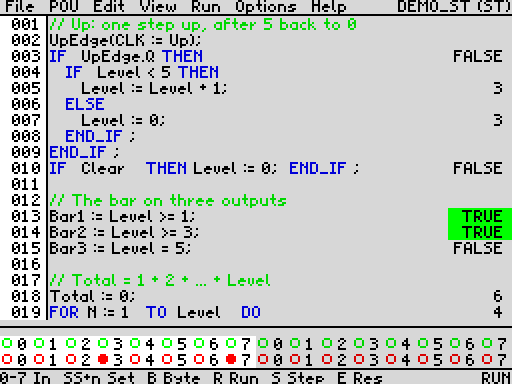
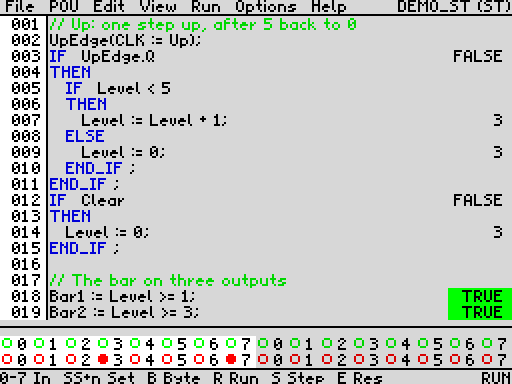
ST: control keywords always on lines of their own
IF / THEN / ELSIF / ELSE / END_IF, CASE / OF, FOR / DO, WHILE, REPEAT /
UNTIL and END_x start a line, and nothing but a comment follows THEN /
ELSE / DO / OF / REPEAT / END_x; on it, so the keywords of a construct
are aligned. st_brk splits a line when the cursor leaves it (st_commit)
and when text is loaded (st_add_line); the cursor, ENTER and mouse
clicks follow the added lines. Demo, manual and screenshots updated.

Claude-Session: https://claude.ai/code/session_01VKWfWdLZ4jVfo626yCcR9d

diff --git a/docs/MANUAL.md b/docs/MANUAL.md
@@ -433,8 +433,12 @@ works like a small text editor:
 * Keywords (`IF`, `THEN`, `END_IF`, `AND`, ...) are dark blue and start on a character cell, so the text
   after a keyword can have a small gap. Comments (`// text` to the end of the line, or `(* text *)`) are
   dark green.
-* **The indent is automatic:** the line after `THEN`, `ELSE`, `DO`, `OF` or `REPEAT` moves one step to
-  the right, a line starting with `END_IF`, `ELSE`, `ELSIF`, `END_FOR`, `UNTIL`, ... one step back.
+* **Every control keyword is on a line of its own:** `IF`, `THEN`, `ELSIF`, `ELSE`, `END_IF`, `CASE`,
+  `OF`, `FOR`, `DO`, `WHILE`, `REPEAT`, `UNTIL` and the `END_...` keywords start a line, and nothing but
+  a comment follows `THEN`, `ELSE`, `DO`, `OF`, `REPEAT` or `END_...;` on it. A line typed as
+  `IF a THEN x := 1; END_IF;` is split into four lines when the cursor leaves it.
+* **The indent is automatic:** the keywords of one construct (`IF`, `THEN`, `ELSE`, `END_IF`) are always
+  aligned, the lines after `THEN`, `ELSE`, `DO`, `OF` or `REPEAT` move one step to the right.
 * Leaving a line (ENTER, UP, DOWN, the menu) checks it: unknown characters, an unclosed `(*` comment and
   unknown names are reported in a popup and the cursor stays on the line. Keywords are stored in upper
   case and the spaces between the words are normalised. The whole program is checked by the compiler
@@ -448,11 +452,22 @@ works like a small text editor:
 
 ```
 x := expression;
-IF c THEN ... ELSIF c THEN ... ELSE ... END_IF;
-CASE e OF 1: ...; 2, 3: ...; 4..9: ...; ELSE ... END_CASE;
-FOR i := 1 TO 10 BY 2 DO ... END_FOR;
-WHILE c DO ... END_WHILE;
-REPEAT ... UNTIL c END_REPEAT;
+
+IF c                 CASE e               FOR i := 1 TO 10 BY 2
+THEN                 OF                   DO
+  ...                  1: ...;              ...
+ELSIF c                2, 3: ...;         END_FOR;
+THEN                   4..9: ...;
+  ...                ELSE                 WHILE c
+ELSE                   ...                DO
+  ...                END_CASE;              ...
+END_IF;                                   END_WHILE;
+
+REPEAT
+  ...
+UNTIL c
+END_REPEAT;
+
 EXIT;                          (leaves the innermost loop)
 RETURN;                        (ends the POU)
 TON0(IN := Start, PT := T#5s, Q => Lamp);
@@ -507,7 +522,7 @@ the faulty line or element; the message is shown in the status bar.
     ![Simulation of DEMO_FBD](img/sim_fbd.png)
 
   * ST lines show the value of the variable they assign (`x := ...`), of the single operand of
-    `IF x THEN`, `WHILE x DO`, `UNTIL x`, `CASE x OF`, `FOR x := ...`, or the ET of a timer call:
+    `IF x`, `ELSIF x`, `WHILE x`, `UNTIL x`, `CASE x`, `FOR x := ...`, or the ET of a timer call:
 
     ![Simulation of DEMO_ST](img/sim_st.png)
 

diff --git a/CLAUDE.md b/CLAUDE.md
@@ -230,6 +230,9 @@ editor and key for users.
     keywords and comments start on x = 8k+1 so their cells can be coloured (rn_attr); the same layout gives
     the cursor x and the width check. The indent is derived from the line above (`st_iinfo`, `st_reind`:
     +1 after THEN / ELSE / DO / OF / REPEAT / an UNTIL line, -1 for END_* / ELSE / ELSIF / UNTIL).
+    Control keywords are always on lines of their own (so IF / THEN / ELSE / END_IF align): `st_brk`
+    splits a line before a control keyword that is not its first token and after THEN / ELSE / DO /
+    OF / REPEAT / END_x[;]; `st_commit` (st_split = lines added) and `st_add_line` apply it.
     `st_sim_row` draws a line for the simulation (cells 0-24) and puts the watched operand in rd_o;
     `st_xr_line` serves the cross references; `st_add_line` + `st_load_text` (app.asm) load text
     (demo, tests; the text goes through il_out, fixed memory).
